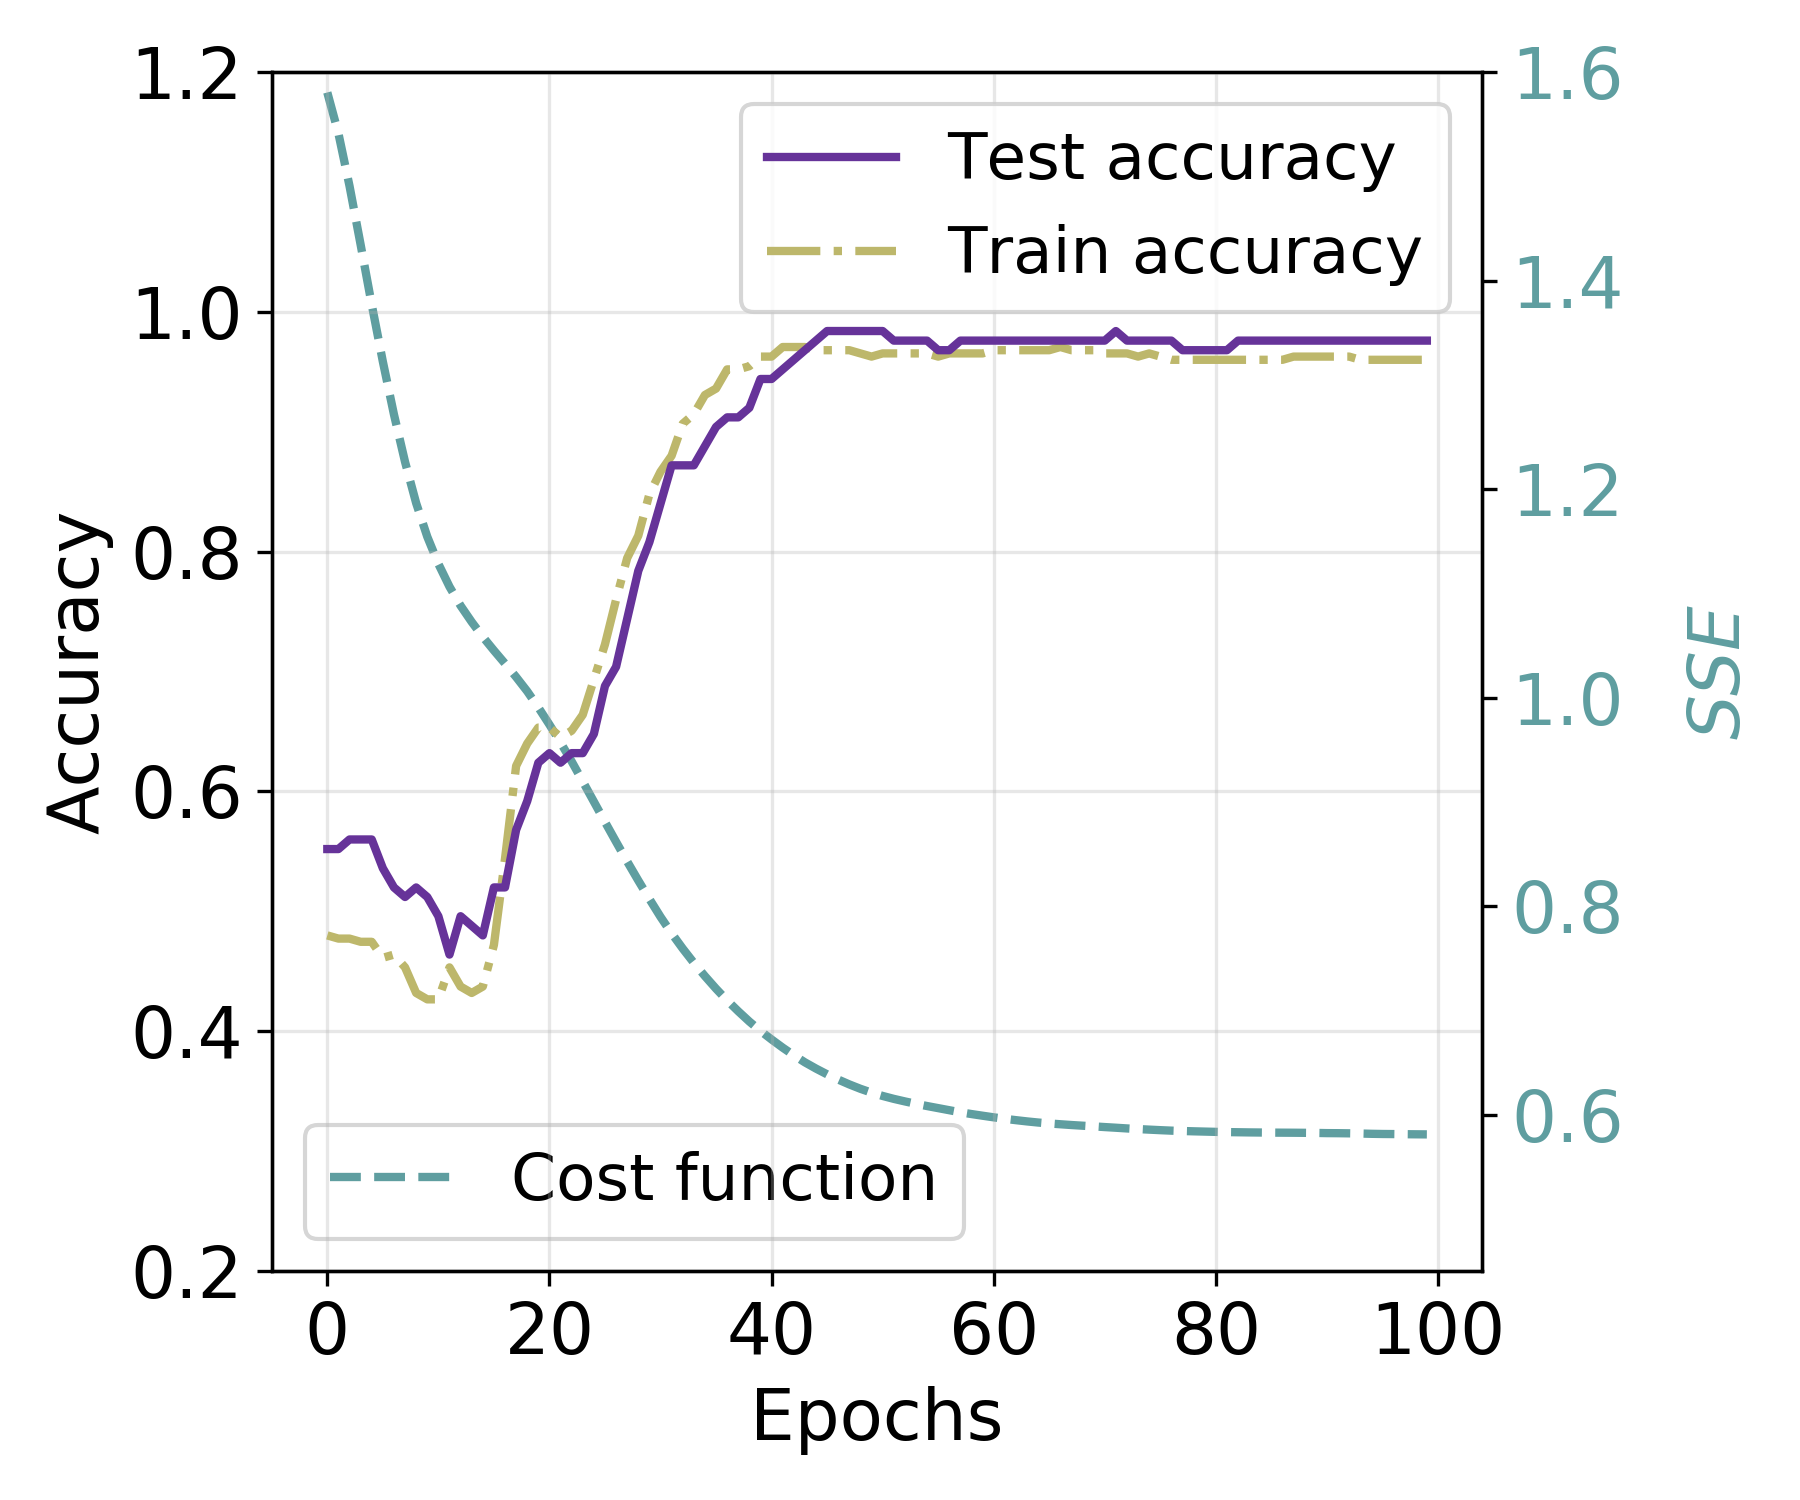
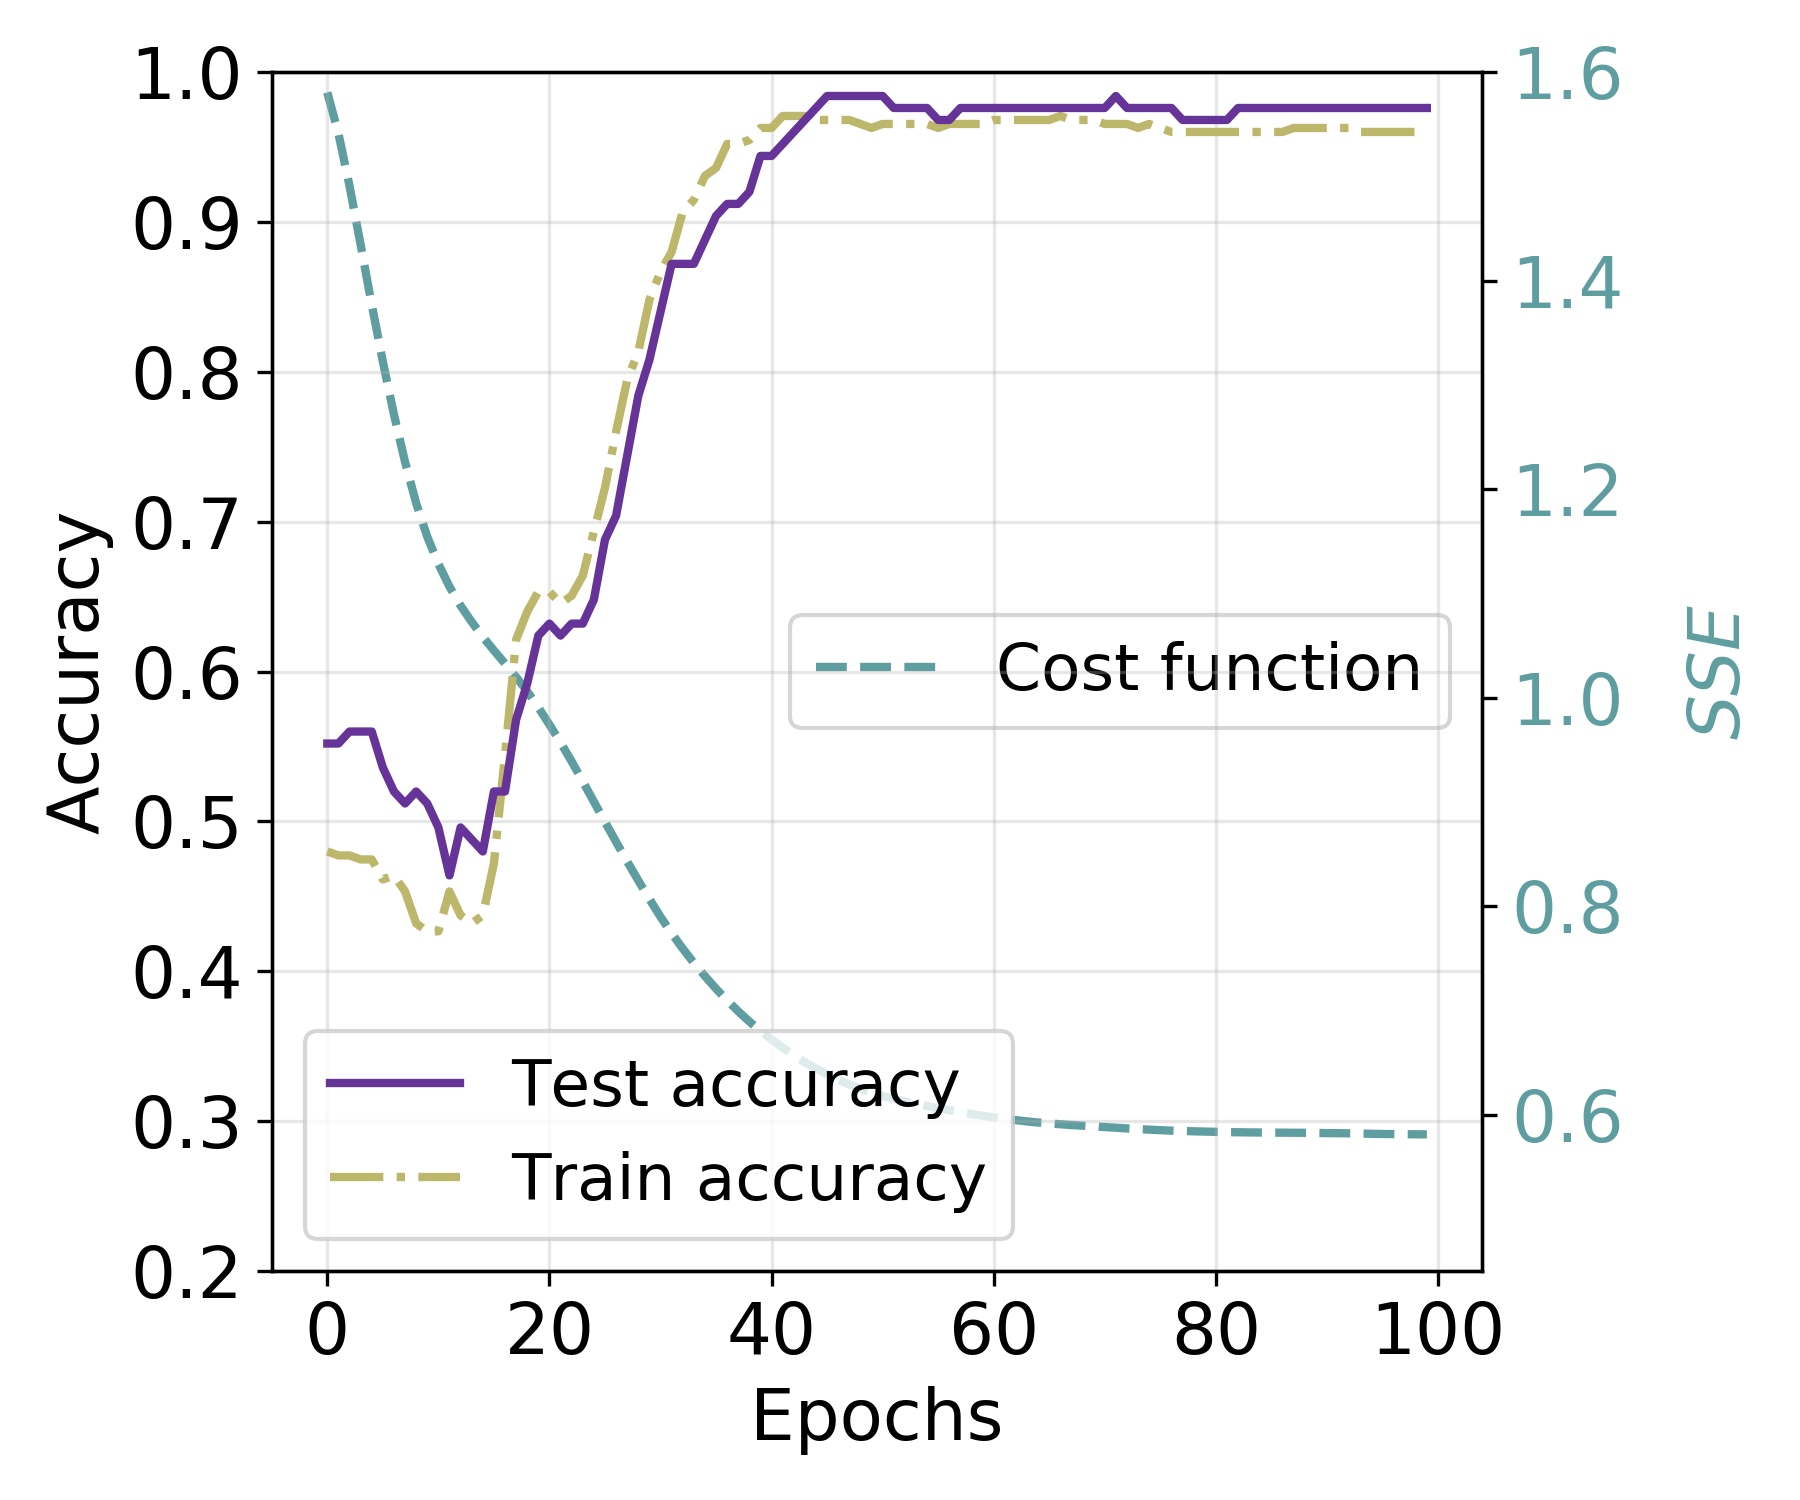
Data viz for presentation

diff --git a/Viz_data_&_performance.py b/Viz_data_&_performance.py
@@ -69,7 +69,7 @@ ax1.grid(alpha=0.3)
 ax1.legend(fontsize=fs_legend)
 
 # set accuracy y-axis range
-ax1.set_ylim(0.2, 1.2)
+ax1.set_ylim(0.2, 1)
 # set axes labels fontsize
 [ticklab.set_fontsize(fs_labels) for ticklab in ax1.get_xticklabels()]
 [ticklab.set_fontsize(fs_labels) for ticklab in ax1.get_yticklabels()]
@@ -96,7 +96,7 @@ ax2.set_yticklabels(np.round(np.arange(0.4, 1.6, 0.2), 2), fontsize=fs_labels)
 # set secondary y-axis range
 ax2.set_ylim(0.45, 1.6)
 # set legend options
-ax2.legend(loc='lower left', fontsize=fs_legend)
+ax2.legend(loc='center right', fontsize=fs_legend)
 plt.tight_layout()
 
 fig.savefig(
